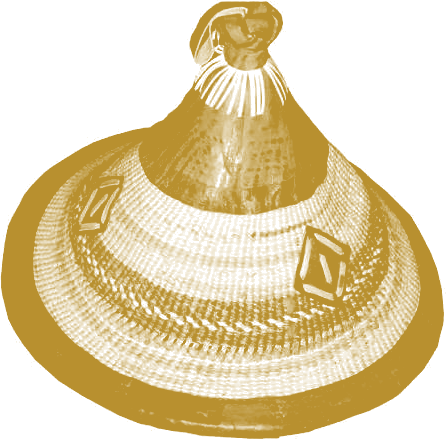
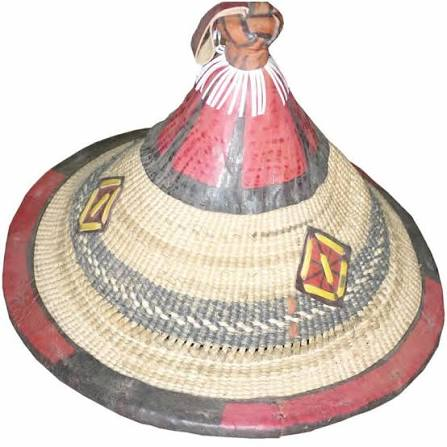
05/11/2026

diff --git a/database/seeders/ParametresCarteSeeder.php b/database/seeders/ParametresCarteSeeder.php
@@ -10,7 +10,7 @@ use Illuminate\Support\Str;
 
 /**
  * Paramètres de la carte d'identification (comité restreint du 03/11/2026) : durée de validité de la carte de commerçant (3 ans) et
- * filigranes de la maquette (armoiries au recto, silure et chapeau de Saponé au verso), images dans
+ * filigranes de la maquette (armoiries et contour du Burkina Faso au recto, silure et chapeau de Saponé au verso), images dans
  * database/seeders/images/carte. S'exécute aussi en production, depuis ReferentielsSeeder. Ne remplit que les réglages
  * vides : ce que le SUPER_ADMIN a saisi ou déposé n'est jamais remplacé.
  */
@@ -18,9 +18,13 @@ class ParametresCarteSeeder extends Seeder
 {
     public const DUREE_VALIDITE_ANNEES = 3;
 
-    /** Filigrane => image fournie. Le filigrane secondaire du recto reste vide. */
+    /**
+     * Filigrane => image fournie (images en couleur, converties en monochrome or au rendu ; remplacées le 05/11/2026,
+     * contour du Burkina Faso au recto ajouté le même jour).
+     */
     public const FILIGRANES = [
         'filigranePrincipalRecto' => 'filigrane-armoiries.png',
+        'filigraneSecondaireRecto' => 'filigrane-carte-burkina.png',
         'filigranePrincipalVerso' => 'filigrane-silure.png',
         'filigraneSecondaireVerso' => 'filigrane-chapeau.png',
     ];

diff --git a/tests/Feature/Cartes/CarteCommercantMaquetteTest.php b/tests/Feature/Cartes/CarteCommercantMaquetteTest.php
@@ -162,7 +162,8 @@ class CarteCommercantMaquetteTest extends TestCase
         foreach (array_keys(ParametresCarteSeeder::FILIGRANES) as $champ) {
             $this->assertNotNull(ReglagesCarte::chemin(plateforme('carte.'.$champ)), $champ);
         }
-        $this->assertNull(plateforme('carte.filigraneSecondaireRecto'));
+        // Les quatre filigranes sont fournis.
+        $this->assertSame([], ReglagesCarte::filigranesManquants());
 
         // Réglages du SUPER_ADMIN gardés ; seeder relancé : rien ne change.
         $parametres = app(ParametresPlateforme::class);
